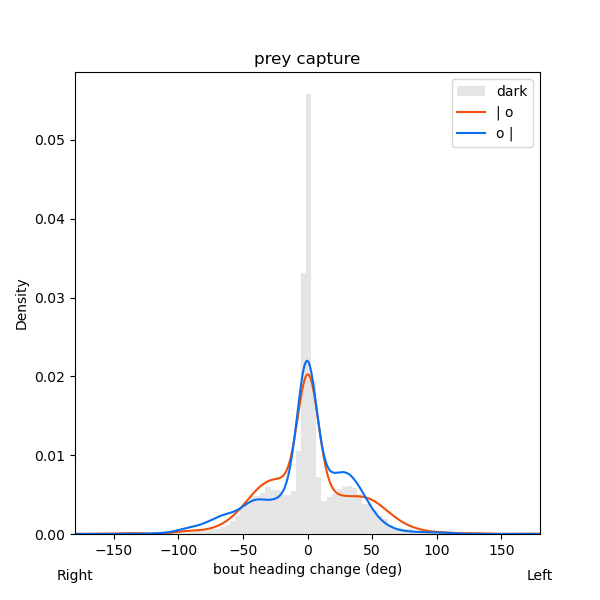
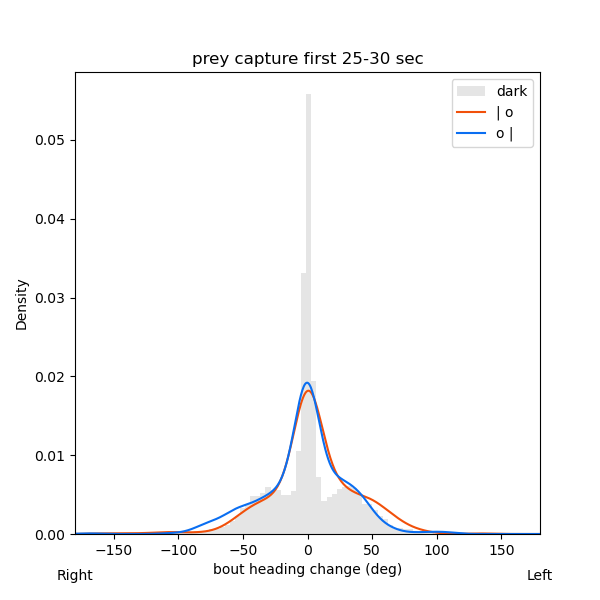
ploting classification over time PC

diff --git a/BehaviorScreen/__main__.py b/BehaviorScreen/__main__.py
@@ -36,7 +36,7 @@ from BehaviorScreen.plot import (
 
 from BehaviorScreen.megabouts import megabout_headtracking_pipeline, get_bout_metrics
 from megabouts.utils import bouts_category_name_short
-from scipy.stats import wilcoxon, friedmanchisquare, ttest_rel
+from scipy.stats import ttest_rel
 import statsmodels.stats.multitest as smm
 from statsmodels.stats.anova import AnovaRM
 import itertools
@@ -56,6 +56,8 @@ import itertools
 # TODO overlay video with ethogram
 
 # TODO megabout segmentation sanity checks
+
+# TODO prey capture try to show bouts only first 5 seconds of the trial (will HAT disappear?)
 
 def _run_superimpose(behavior_file: BehaviorFiles, directories: Directories):
     behavior_data = load_data(behavior_file)
@@ -651,10 +653,37 @@ if __name__ == '__main__':
     # Bouts
 
     fig = plt.figure(figsize=(6,6))
-    plt.title('prey capture')
+    plt.title('prey capture first 0-5 sec')
     bouts[(bouts['stim']==Stim.DARK)]['heading_change'].apply(np.rad2deg).plot.hist(color='k', bins=180, alpha=0.1, density=True, label='dark')
-    bouts[(bouts['stim']==Stim.PREY_CAPTURE) & (bouts['stim_variable_value']=='20.0')]['heading_change'].apply(np.rad2deg).plot.kde(color=COLORS[0], label='| o')
-    bouts[(bouts['stim']==Stim.PREY_CAPTURE) & (bouts['stim_variable_value']=='-20.0')]['heading_change'].apply(np.rad2deg).plot.kde(color=COLORS[1], label='o |')
+    bouts[(bouts['stim']==Stim.PREY_CAPTURE) & (bouts['stim_variable_value']=='20.0') & (bouts['trial_time']<=5)]['heading_change'].apply(np.rad2deg).plot.kde(color=COLORS[0], label='| o')
+    bouts[(bouts['stim']==Stim.PREY_CAPTURE) & (bouts['stim_variable_value']=='-20.0') & (bouts['trial_time']<=5)]['heading_change'].apply(np.rad2deg).plot.kde(color=COLORS[1], label='o |')
+    plt.xlim(-180, 180)
+    plt.legend()
+    plt.text(
+        x=-180,
+        y=-0.075,       
+        s="Right",
+        ha='center',   
+        va='top',     
+        transform=plt.gca().get_xaxis_transform() 
+    )
+    plt.text(
+        x=180,
+        y=-0.075,       
+        s="Left",
+        ha='center',   
+        va='top',     
+        transform=plt.gca().get_xaxis_transform() 
+    )
+    plt.xlabel('bout heading change (deg)')
+    plt.savefig('preycapture_bouts.png')
+    plt.show(block=False)
+
+    fig = plt.figure(figsize=(6,6))
+    plt.title('prey capture first 25-30 sec')
+    bouts[(bouts['stim']==Stim.DARK)]['heading_change'].apply(np.rad2deg).plot.hist(color='k', bins=180, alpha=0.1, density=True, label='dark')
+    bouts[(bouts['stim']==Stim.PREY_CAPTURE) & (bouts['stim_variable_value']=='20.0') & (bouts['trial_time']>=25)]['heading_change'].apply(np.rad2deg).plot.kde(color=COLORS[0], label='| o')
+    bouts[(bouts['stim']==Stim.PREY_CAPTURE) & (bouts['stim_variable_value']=='-20.0') & (bouts['trial_time']>=25)]['heading_change'].apply(np.rad2deg).plot.kde(color=COLORS[1], label='o |')
     plt.xlim(-180, 180)
     plt.legend()
     plt.text(
@@ -937,6 +966,9 @@ if __name__ == '__main__':
 
             if stim == Stim.LOOMING:
                 df_sub = df_sub[(bouts['trial_time']>=4) & (bouts['trial_time']<=6)]
+
+            if stim == Stim.PREY_CAPTURE:
+                df_sub = df_sub[(bouts['trial_time']<=10)]
             
             counts = []
             for cat in range(num_cat):
@@ -971,3 +1003,45 @@ if __name__ == '__main__':
         pool.map(run_single_animal, behavior_files)
 
 
+## PREY CAPTURE
+
+    num_cat = len(bouts_category_name_short)
+    sides = ['L', 'R']
+    row_labels = [f"{cat}_{side}" for cat in bouts_category_name_short for side in sides]
+    full_index = list(range(num_cat * len(sides)))  
+
+    heatmap_df = pd.DataFrame()
+
+    stim = Stim.PREY_CAPTURE
+    for start, stop in [(0,5),(5,10),(10,15),(15,20),(20,25)]:
+        mask = (bouts['trial_time']>=start) & (bouts['trial_time']<=stop)
+        for p in ['-20.0', '20.0']:
+            df_sub = bouts[(bouts['stim'] == stim) & 
+                        (bouts['stim_variable_value'] == p) & 
+                        (bouts['proba'] > 0.5) &
+                        (bouts['distance_center'] < 15) &
+                        mask
+                    ]
+
+            counts = []
+            for cat in range(num_cat):
+                left_count = df_sub[(df_sub['category'] == cat) & (df_sub['sign'] == -1)].shape[0]
+                right_count = df_sub[(df_sub['category'] == cat) & (df_sub['sign'] == 1)].shape[0]
+                counts.extend([left_count, right_count])
+            
+            counts = pd.Series(counts, index=row_labels)
+            counts = counts / counts.sum()  
+            heatmap_df[stim.name + f'_{start}-{stop}s_' + str(p)] = counts
+        
+    plt.figure(figsize=(6, 8))
+    plt.imshow(heatmap_df, aspect='auto', cmap='inferno')
+    plt.colorbar(label='prob.')
+
+    plt.xticks(range(len(heatmap_df.columns)), heatmap_df.columns, rotation=90, ha='right')
+    plt.yticks(range(len(heatmap_df.index)), heatmap_df.index)
+
+    plt.xlabel("Stimulus")
+    plt.ylabel("Category")
+    plt.tight_layout()
+    plt.savefig('categories_pc.png')
+    plt.show()

diff --git a/BehaviorScreen/core.py b/BehaviorScreen/core.py
@@ -41,8 +41,8 @@ GROUPING_PARAMETER = {
 
 COLORS = ("#F1500A", "#0A6EF1", "#333333")
 
-#ROOT_FOLDER = Path('/media/martin/DATA/Behavioral_screen')
-ROOT_FOLDER = Path('/media/martin/MARTIN_8TB_0/Work/Baier/DATA/Behavioral_screen')
+ROOT_FOLDER = Path('/media/martin/DATA1/Behavioral_screen')
+#ROOT_FOLDER = Path('/media/martin/MARTIN_8TB_0/Work/Baier/DATA/Behavioral_screen')
 #ROOT_FOLDER = Path('/home/martin/Downloads/')
 BASE_DIR = ROOT_FOLDER / 'output'
 

diff --git a/BehaviorScreen/megabouts.py b/BehaviorScreen/megabouts.py
@@ -26,7 +26,7 @@ from .load import BehaviorData, BehaviorFiles, Directories
 from .process import get_trials, get_well_coords_mm
 
 # Force running on CPU if GPU is not compatible
-CPU = False
+CPU = True
 if CPU:
     import torch
     torch.cuda.is_available = lambda: False
